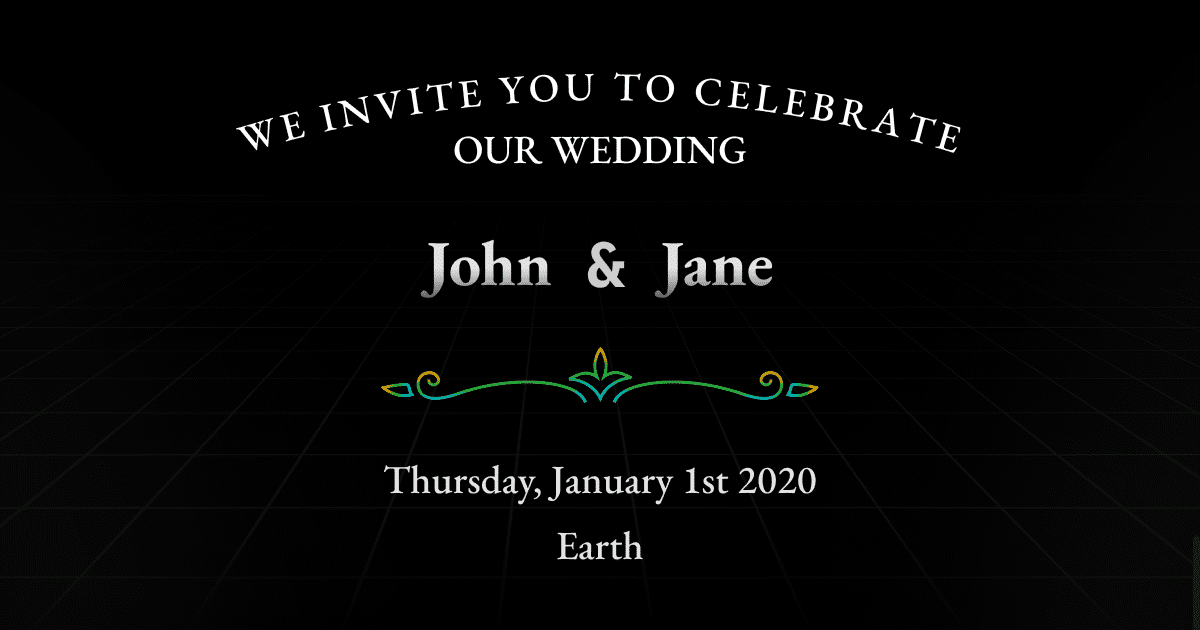
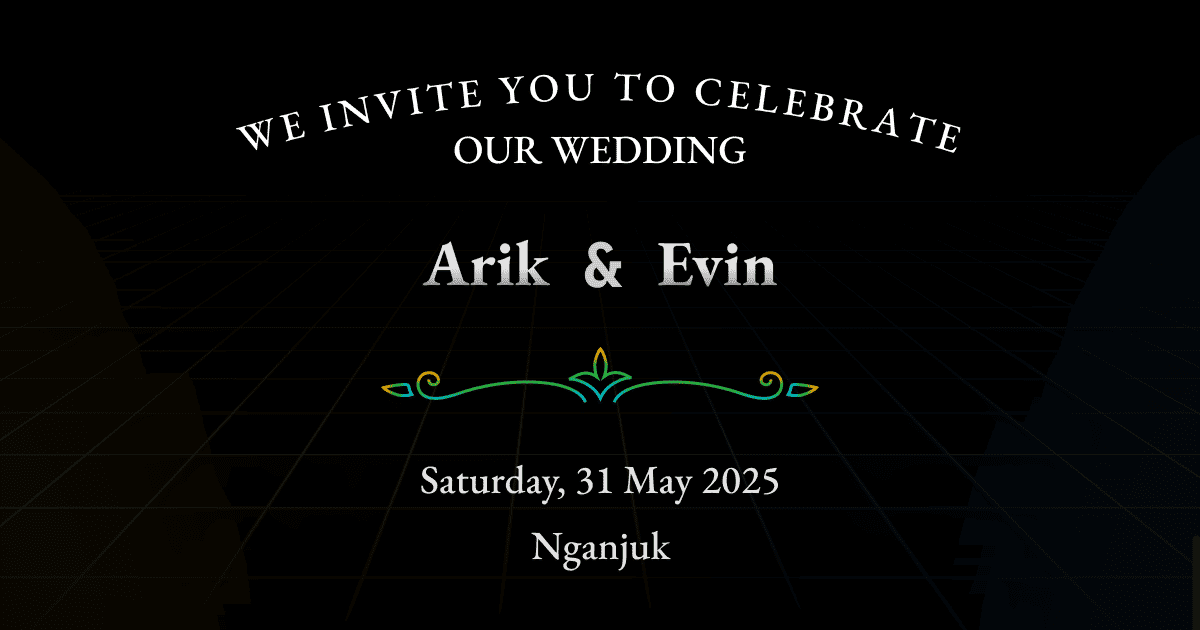
update

diff --git a/app/new-page.js b/app/new-page.js
@@ -38,6 +38,7 @@ const RoundedText = dynamic(() => import('@components/RoundedText'), {
 });
 
 export default function NewPage({ slug }) {
+  const [copied, setCopied] = useState(false);
   const { modalOpen, setModalOpen } = useShowModal();
   const recipient = recipients.find((item) => item.slug == slug) || { name: 'Tamu Undangan' };
   const time = useTime();
@@ -402,6 +403,17 @@ export default function NewPage({ slug }) {
                   <span className={eb.className}>{config.time}</span>
                 </h1>
               </FadeIn>
+              <div className='flex w-full justify-center'>
+                <a
+                  target='_blank'
+                  href='https://calendar.google.com/calendar/u/0/r/eventedit?text=The+Wedding+of+Arik+%26+Evin&dates=20250531T020000Z/20250531T060000Z&location=Gampeng,+Ngluyu,+Nganjuk&details=The+Wedding+of+Arik+%26+Evin'
+                  className='group relative mb-2 inline-flex items-center justify-center overflow-hidden rounded-lg bg-gradient-to-br from-yellow-600 via-green-500 to-sky-500 p-0.5 text-sm font-medium text-white focus:outline-none focus-visible:ring-1 focus-visible:ring-green-500 focus-visible:ring-offset-1 focus-visible:ring-offset-black group-hover:from-yellow-600 group-hover:via-green-600 group-hover:to-sky-500'
+                >
+                  <span className='relative rounded-md bg-black px-6 py-2 transition-all duration-75 ease-in group-hover:bg-opacity-0'>
+                    Save to Calendar
+                  </span>
+                </a>
+              </div>
             </div>
           </section>
 
@@ -431,7 +443,7 @@ export default function NewPage({ slug }) {
                     className='group relative mb-2 inline-flex items-center justify-center overflow-hidden rounded-lg bg-gradient-to-br from-yellow-600 via-green-500 to-sky-500 p-0.5 text-sm font-medium text-white focus:outline-none focus-visible:ring-1 focus-visible:ring-green-500 focus-visible:ring-offset-1 focus-visible:ring-offset-black group-hover:from-yellow-600 group-hover:via-green-600 group-hover:to-sky-500'
                   >
                     <span className='relative rounded-md bg-black px-6 py-2 transition-all duration-75 ease-in group-hover:bg-opacity-0'>
-                      {showMap ? 'Sembunyikan Map' : 'Tampilkan Map'}
+                      {showMap ? 'Hide Map' : 'Show Map'}
                     </span>
                   </button>
                 </div>
@@ -769,9 +781,21 @@ export default function NewPage({ slug }) {
                     >
                       <i>{config.woman_fullname} Nasikin A</i>
                     </p>
-                    <p className='bg-gradient-to-t from-white via-neutral-300 to-neutral-500 bg-clip-text text-center text-3xl font-semibold text-transparent'>
-                      {config.woman_card_number}
-                    </p>
+                    <p className='text-center text-3xl font-semibold text-white'>{config.woman_card_number}</p>
+                  </div>
+                  <div className='mt-4 flex justify-center'>
+                    <button
+                      title='Copy Account Number'
+                      onClick={() => {
+                        navigator.clipboard.writeText('64170 10441 14537');
+                        setCopied(true);
+                      }}
+                      className='group relative mb-2 inline-flex items-center justify-center overflow-hidden rounded-lg bg-gradient-to-br from-yellow-600 via-green-500 to-sky-500 p-0.5 text-sm font-medium text-white focus:outline-none focus-visible:ring-1 focus-visible:ring-green-500 focus-visible:ring-offset-1 focus-visible:ring-offset-black group-hover:from-yellow-600 group-hover:via-green-600 group-hover:to-sky-500'
+                    >
+                      <span className='relative rounded-md bg-black px-6 py-2 transition-all duration-75 ease-in group-hover:bg-opacity-0'>
+                        {copied ? 'Number Copied' : 'Copy Number'}
+                      </span>
+                    </button>
                   </div>
                 </FadeIn>
               </div>

diff --git a/data/recipients.js b/data/recipients.js
@@ -1,18 +1,46 @@
 export const recipients = [
   {
-    slug: 'john',
-    name: 'John',
+    slug: 'luluk',
+    name: 'Luluil Maknun',
   },
   {
-    slug: 'john-doe',
-    name: 'John Doe',
+    slug: 'ratna',
+    name: 'Dwi Ratna Sari',
   },
   {
-    slug: 'jane',
-    name: 'Jane',
+    slug: 'hevin',
+    name: 'Hevin Sulistyaningsih',
   },
   {
-    slug: 'jane-doe',
-    name: 'Jane Doe',
+    slug: 'ria',
+    name: 'Wamadatul Khoiriyah',
+  },
+  {
+    slug: 'frida',
+    name: 'Frida Yuana',
+  },
+  {
+    slug: 'fian',
+    name: 'Fian',
+  },
+  {
+    slug: 'salimah',
+    name: 'Salimah',
+  },
+  {
+    slug: 'tanti',
+    name: 'Tanti',
+  },
+  {
+    slug: 'diah',
+    name: 'Diah Dwi P',
+  },
+  {
+    slug: 'harianti',
+    name: 'Harianti',
+  },
+  {
+    slug: 'Novita',
+    name: 'Novita Yanna',
   },
 ];

diff --git a/components/MyModal.js b/components/MyModal.js
@@ -72,7 +72,7 @@ export default function MyModal({ isOpen, closeModal }) {
                         </span>{' '}
                         {config.woman}
                       </h1>
-                      {/* <h3 className="text-5xl font-bold text-white mb-2 mt-8 text-transparent bg-clip-text bg-gradient-to-r from-yellow-500 via-green-600 to-sky-500">John & Jane</h3> */}
+                      {/* <h3 className="text-5xl font-bold text-white mb-2 mt-8 text-transparent bg-clip-text bg-gradient-to-r from-yellow-500 via-green-600 to-sky-500">Arik & Evin</h3> */}
 
                       <Border className='mx-auto w-56 sm:w-auto' />
 

diff --git a/app/CommentComp.js b/app/CommentComp.js
@@ -84,7 +84,7 @@ export default function CommentComp() {
         </div>
       </div>
       <div className='relative z-[10] mx-auto max-w-xl items-center gap-1.5 p-4'>
-        <form className='' onSubmit={onSubmit}>
+        <form onSubmit={onSubmit}>
           <div className='rotate-border rotate-border-1 relative flex h-full w-full items-center justify-center overflow-hidden rounded-lg bg-transparent p-0.5'>
             <input
               ref={name}

diff --git a/utils/GlobalContext.js b/utils/GlobalContext.js
@@ -5,7 +5,7 @@ import { createContext, useContext, useState } from 'react';
 export const GlobalContext = createContext(null);
 
 export function GlobalProvider({ children }) {
-  const [modalOpen, setModalOpen] = useState(false);
+  const [modalOpen, setModalOpen] = useState(true);
 
   return <GlobalContext.Provider value={{ modalOpen, setModalOpen }}>{children}</GlobalContext.Provider>;
 }

diff --git a/data/config.js b/data/config.js
@@ -1,6 +1,6 @@
 export const config = {
-  title: 'Next Invitation',
-  description: 'Next Invitation',
+  title: 'The Wedding of Arik & Evin',
+  description: 'Sabtu, 31 Mei 2025',
   man: 'Arik',
   man_image: 'wahid.jpg',
   man_fullname: 'Wahid Ari',
